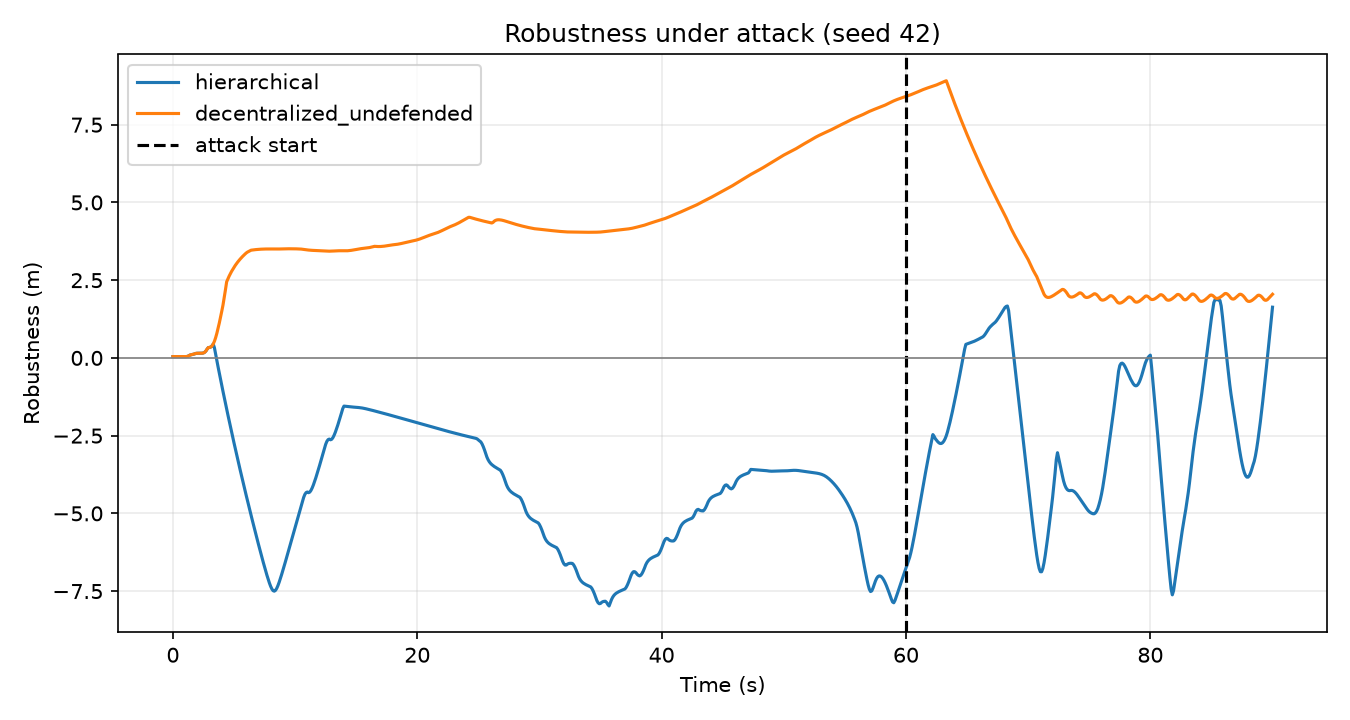
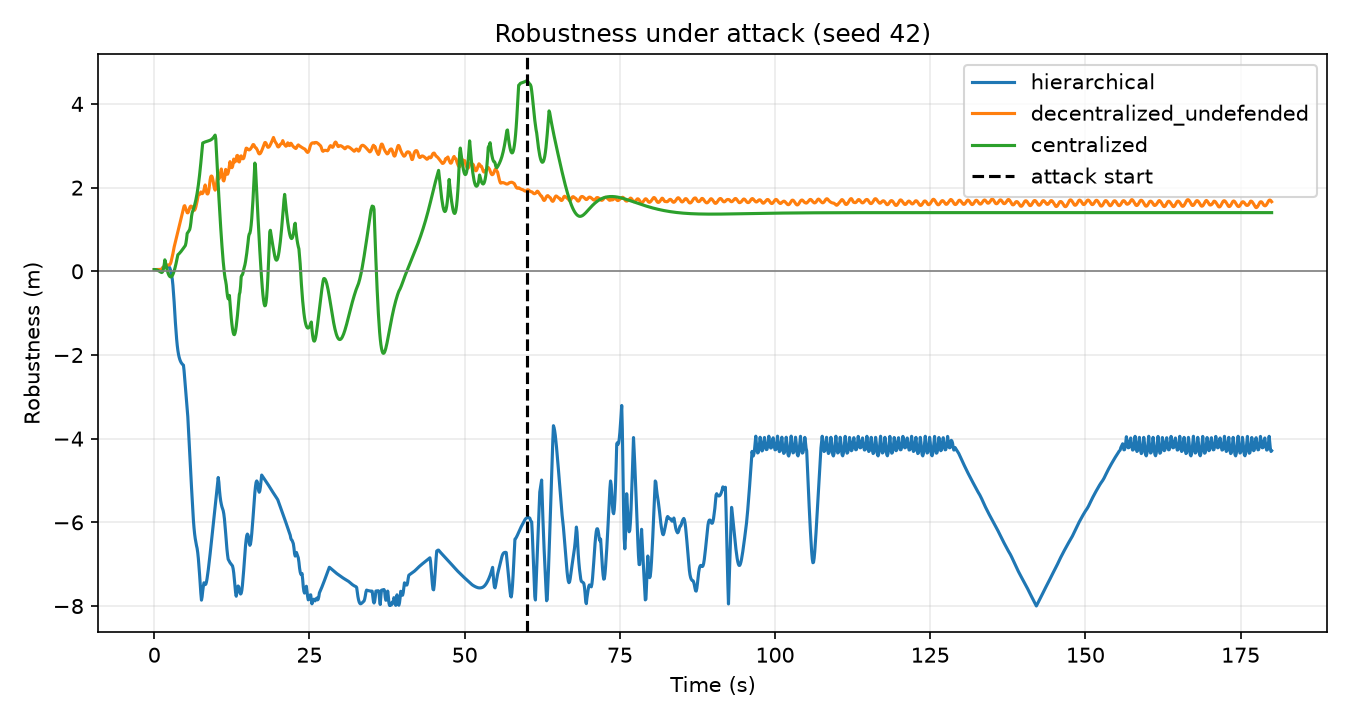
Fix initial-conditions hash timing; earlier attack in quick compare; re-run E4 with centralized

diff --git a/scripts/p6_week5_compare.py b/scripts/p6_week5_compare.py
@@ -40,7 +40,9 @@ def main() -> None:
         n_agents = 30
         duration_s = 60.0
         seeds = [42]
+        attack_start_s = 20.0
     else:
+        attack_start_s = None
         n_agents = 60
         duration_s = float(cfg["simulation"]["duration_seconds"])
         seeds = exp_cfg.get("seeds", [42, 43, 44])
@@ -73,6 +75,7 @@ def main() -> None:
                     link_failure=False,
                     scenario="e4_e5",
                     return_series=True,
+                    attack_start_s=attack_start_s,
                 )
                 rows.append(row)
 
@@ -94,7 +97,7 @@ def main() -> None:
     print(f"Saved verification report to {txt_path}")
 
     # 3. Plot STL robustness by architecture
-    attack_start = float(cfg.get("attack", {}).get("start_time_seconds", 60.0))
+    attack_start = attack_start_s if attack_start_s is not None else float(cfg.get("attack", {}).get("start_time_seconds", 60.0))
     fig, ax = plt.subplots(figsize=(10, 6))
     for arch, (times, series) in series_by_arch.items():
         ax.plot(times, series, label=arch, linewidth=1.5)

diff --git a/main.py b/main.py
@@ -124,6 +124,7 @@ def main(argv: Sequence[str] | None = None) -> int:
 
     # 5. Build agents and run simulation
     agents = make_initial_agents(n=args.agents, seed=args.seed)
+    ic_hash = initial_conditions_hash(agents)
     out_dir = Path(args.out)
     out_dir.mkdir(parents=True, exist_ok=True)
     events_path = out_dir / "stl_events.csv"
@@ -191,7 +192,7 @@ def main(argv: Sequence[str] | None = None) -> int:
         "duration_s": float(args.duration),
         "attack_enabled": bool(attack_config.get("enabled", False)),
         "link_failure": bool(overseer_link_config.get("enabled", False)),
-        "initial_conditions_hash": initial_conditions_hash(agents),
+        "initial_conditions_hash": ic_hash,
         "wall_time_s": wall_time_s,
     }
     run_row = build_run_row(result, metrics_dict, info)

diff --git a/experiments/runner.py b/experiments/runner.py
@@ -162,6 +162,7 @@ def run_experiment(
     link_failure: bool = False,
     scenario: str = "custom",
     return_series: bool = False,
+    attack_start_s: float | None = None,
 ):
     """Execute forward simulation for one experiment configuration."""
     reset_default_overseer()
@@ -175,6 +176,8 @@ def run_experiment(
     h = initial_conditions_hash(agents)
 
     attack_config = {**cfg.get("attack", {}), "enabled": attack_enabled}
+    if attack_start_s is not None:
+        attack_config["start_time_seconds"] = float(attack_start_s)
 
     link_failure_cfg = cfg.get("overseer", {}).get("link_failure", {})
     if link_failure:
